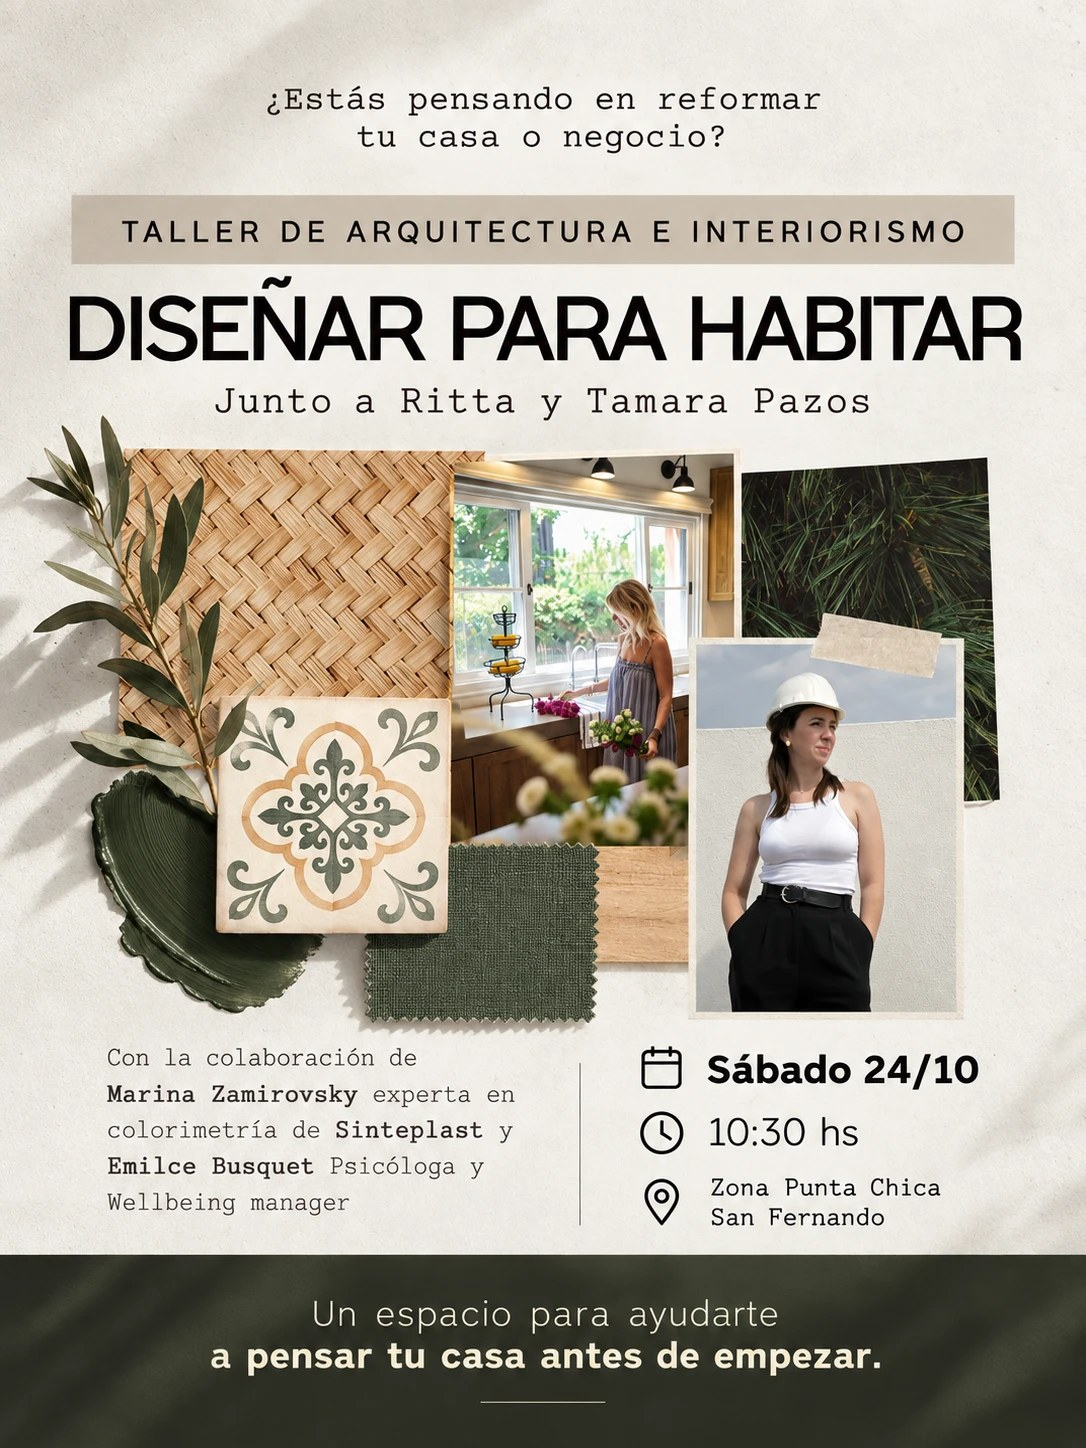
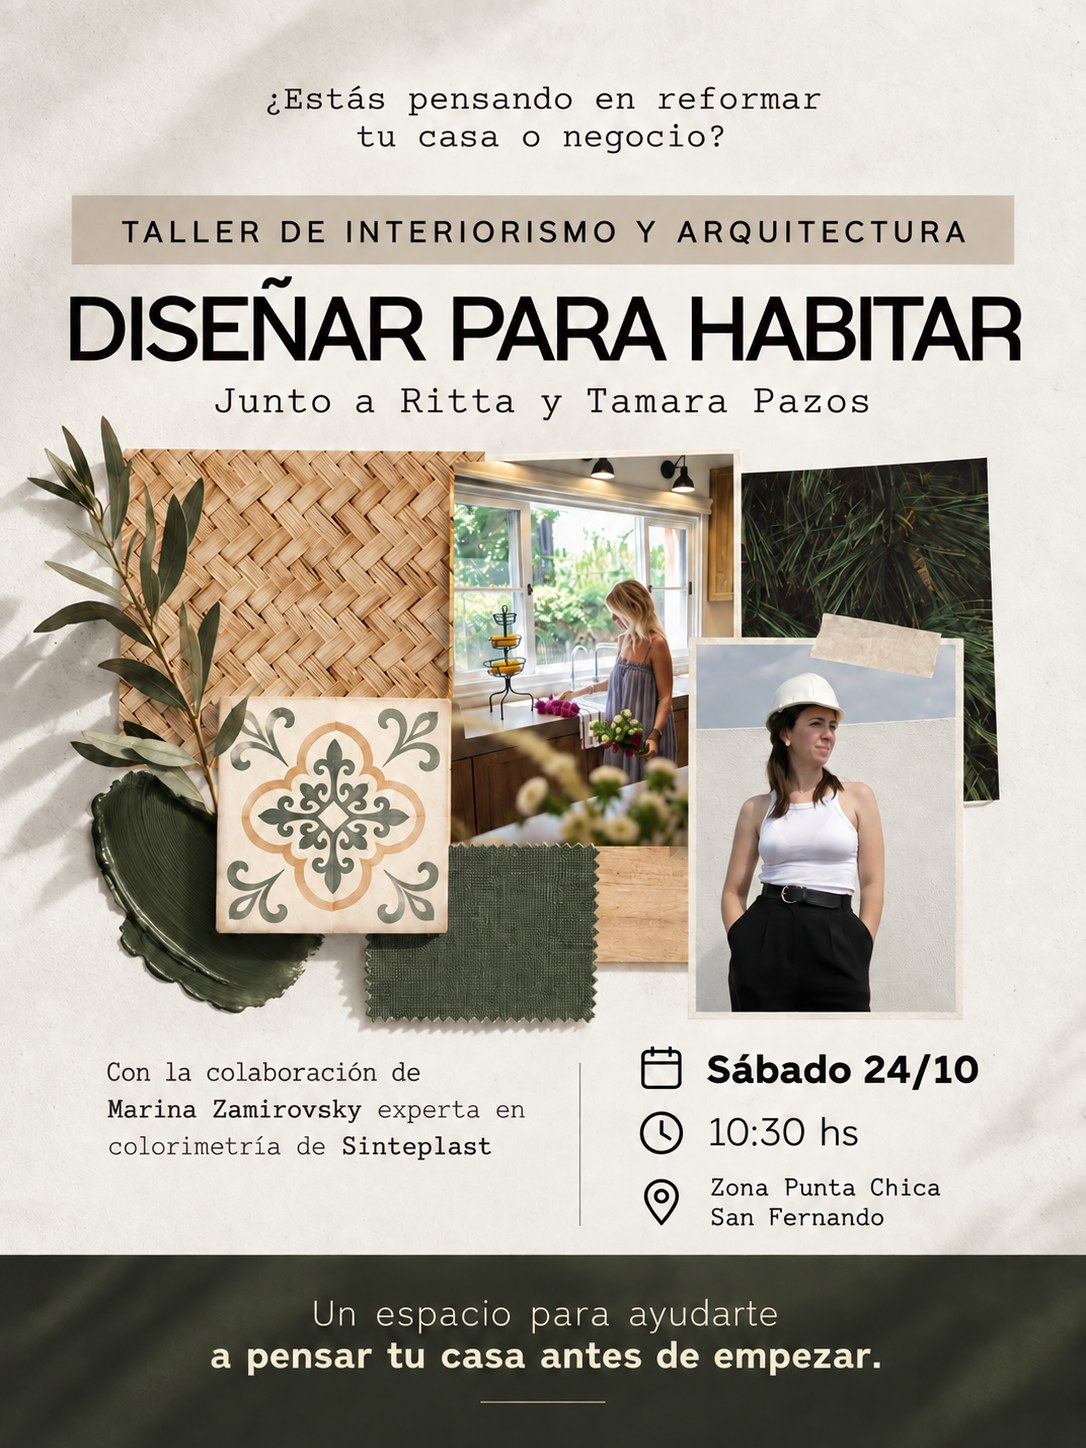
Update taller poster, rename to 'Taller de interiorismo y arquitectura', remove Emilce Busquet

diff --git a/taller.html b/taller.html
@@ -5,7 +5,7 @@
   <meta charset="UTF-8">
   <meta name="viewport" content="width=device-width, initial-scale=1.0">
   <title>Taller "Diseñar para habitar" · Sáb 24/10 | RITTA Estudio</title>
-  <meta name="description" content="Taller de arquitectura e interiorismo junto a Ritta y Tamara Pazos. Sábado 24 de octubre, 10:30 hs, Punta Chica. Cupos limitados.">
+  <meta name="description" content="Taller de interiorismo y arquitectura junto a Ritta y Tamara Pazos. Sábado 24 de octubre, 10:30 hs, Punta Chica. Cupos limitados.">
   <meta name="robots" content="index, follow">
   <link rel="canonical" href="https://www.rittaestudio.com.ar/taller.html">
   <link rel="icon" type="image/png" href="/images/favicon-ritta.png">
@@ -14,7 +14,7 @@
   <meta property="og:type" content="website">
   <meta property="og:url" content="https://www.rittaestudio.com.ar/taller.html">
   <meta property="og:title" content="Taller &quot;Diseñar para habitar&quot; · Sáb 24/10">
-  <meta property="og:description" content="Taller de arquitectura e interiorismo junto a Ritta y Tamara Pazos. Punta Chica. Cupos limitados.">
+  <meta property="og:description" content="Taller de interiorismo y arquitectura junto a Ritta y Tamara Pazos. Punta Chica. Cupos limitados.">
   <meta property="og:image" content="https://www.rittaestudio.com.ar/images/taller-disenar-para-habitar.jpg">
   <meta property="og:locale" content="es_AR">
   <meta property="og:site_name" content="RITTA Estudio">
@@ -25,7 +25,7 @@
   {
     "@context": "https://schema.org",
     "@type": "Event",
-    "name": "Diseñar para habitar — Taller de arquitectura e interiorismo",
+    "name": "Diseñar para habitar — Taller de interiorismo y arquitectura",
     "startDate": "2026-10-24T10:30:00-03:00",
     "eventAttendanceMode": "https://schema.org/OfflineEventAttendanceMode",
     "eventStatus": "https://schema.org/EventScheduled",
@@ -35,7 +35,7 @@
       "address": { "@type": "PostalAddress", "addressLocality": "San Fernando", "addressRegion": "Buenos Aires", "addressCountry": "AR" }
     },
     "image": "https://www.rittaestudio.com.ar/images/taller-disenar-para-habitar.jpg",
-    "description": "Taller de arquitectura e interiorismo junto a Ritta y Tamara Pazos.",
+    "description": "Taller de interiorismo y arquitectura junto a Ritta y Tamara Pazos.",
     "offers": { "@type": "Offer", "price": "80000", "priceCurrency": "ARS", "availability": "https://schema.org/LimitedAvailability", "url": "https://www.rittaestudio.com.ar/taller.html" },
     "organizer": { "@type": "Organization", "name": "RITTA Estudio", "url": "https://www.rittaestudio.com.ar" }
   }
@@ -198,7 +198,7 @@
           alt="Afiche del taller Diseñar para habitar, junto a Ritta y Tamara Pazos. Sábado 24/10, 10:30 hs, Zona Punta Chica">
 
         <div>
-          <p class="label eyebrow">Taller de arquitectura e interiorismo</p>
+          <p class="label eyebrow">Taller de interiorismo y arquitectura</p>
           <h1>Diseñar<br>para habitar</h1>
           <p class="lead">
             ¿Estás pensando en reformar tu casa o negocio? Un espacio para ayudarte a pensar tu casa antes de empezar.
@@ -253,10 +253,9 @@
         </div>
         <div>
           <p class="label">Con la colaboración de</p>
-          <h2>Invitadas especiales</h2>
+          <h2>Invitada especial</h2>
           <p>
-            <strong>Marina Zamirovsky</strong>, experta en colorimetría de Sinteplast.<br>
-            <strong>Emilce Busquet</strong>, psicóloga y wellbeing manager.
+            <strong>Marina Zamirovsky</strong>, experta en colorimetría de Sinteplast.
           </p>
         </div>
       </section>
